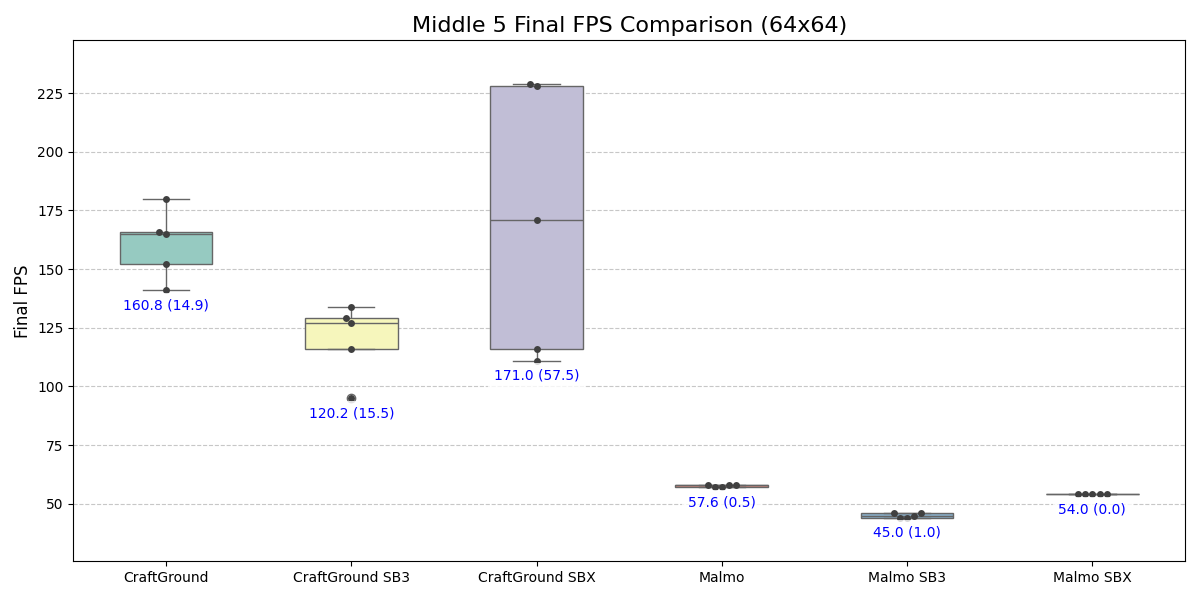
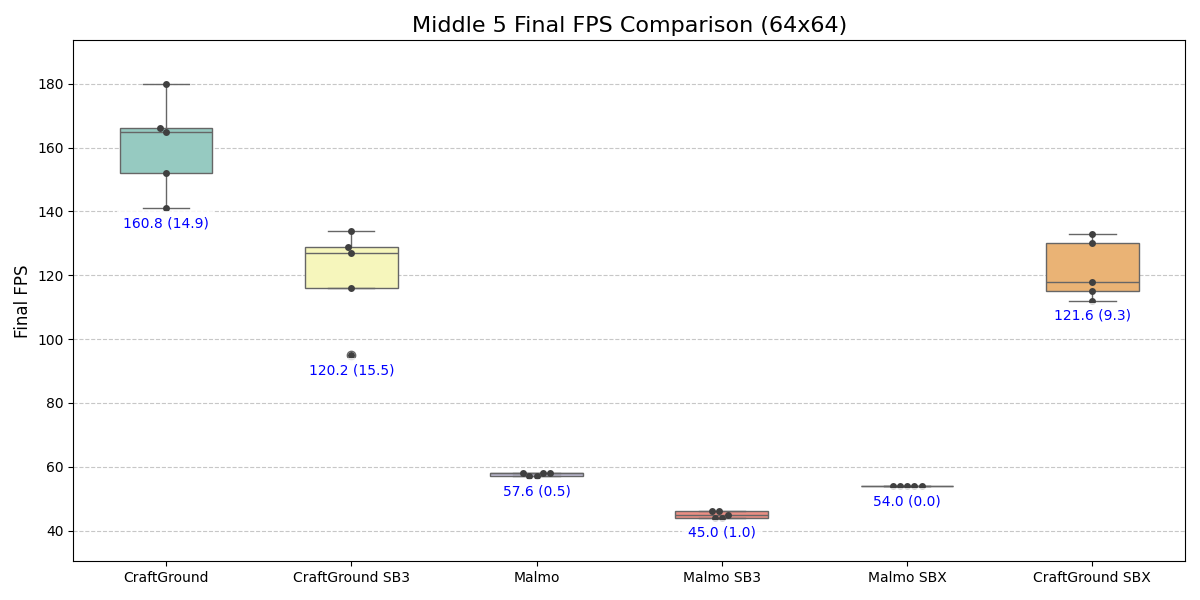
⚗ Lower sd for sbx cg

diff --git a/post_processing/group_fps.py b/post_processing/group_fps.py
@@ -27,14 +27,59 @@ def remove_outliers_iqr(df, column="time/fps"):
     return df[(df[column] >= lower_bound) & (df[column] <= upper_bound)]
 
 
+desired_order = [
+    "CraftGround",
+    "CraftGround SB3",
+    "CraftGround SBX",
+    "Malmo",
+    "Malmo SB3",
+    "Malmo SBX",
+]
+
+
 def group_fps_topk(
     csv_file: str, k: int, use_middle: bool = True, remove_iql: bool = True
 ) -> dict:
     df = pd.read_csv(csv_file)
 
-    # Seperate 64x64 640x360
-    df_64x64 = df[df["group"].str.contains("64-64")]
-    df_640x360 = df[df["group"].str.contains("640-360")]
+    desired_order = [
+        "CraftGround",
+        "CraftGround SB3",
+        "CraftGround SBX",
+        "Malmo",
+        "Malmo SB3",
+        "Malmo SBX",
+    ]
+
+    new_labels = {
+        "v3-craftground-raw--64-64-render_sbx-ppo": "CraftGround SBX",
+        "v2-craftground-raw--64-64-render_ppo": "CraftGround SB3",
+        "v2-craftground-raw--64-64-render": "CraftGround",
+        "v2-minerl100--64-64-render_sbx-ppo": "Malmo SBX",
+        "v2-minerl100--64-64-render_ppo": "Malmo SB3",
+        "v2-minerl100--64-64-render": "Malmo",
+        "v2-craftground-raw--640-360-render_sbx-ppo": "CraftGround SBX",
+        "v2-craftground-raw--640-360-render_ppo": "CraftGround SB3",
+        "v2-craftground-raw--640-360-render": "CraftGround",
+        "v2-minerl100--640-360-render_sbx-ppo": "Malmo SBX",
+        "v2-minerl100--640-360-render_ppo": "Malmo SB3",
+        "v2-minerl100--640-360-render": "Malmo",
+    }
+
+    df_64x64 = df[df["group"].str.contains("64-64")].copy()
+    df_640x360 = df[df["group"].str.contains("640-360")].copy()
+
+    df_64x64["group"] = df_64x64["group"].map(new_labels)
+    df_64x64 = df_64x64.sort_values(
+        by="group",
+        key=lambda x: x.map({v: i for i, v in enumerate(desired_order)}),
+    )
+
+    df_640x360["group"] = df_640x360["group"].map(new_labels)
+    df_640x360 = df_640x360.sort_values(
+        by="group",
+        key=lambda x: x.map({v: i for i, v in enumerate(desired_order)}),
+    )
 
     if remove_iql:
         df_64x64 = df_64x64.groupby("group", group_keys=False).apply(
@@ -69,25 +114,21 @@ def group_fps_topk(
             .reset_index(drop=True)
         )
 
-    new_labels = {
-        "v2-craftground-raw--64-64-render_sbx-ppo": "CraftGround SBX",
-        "v2-craftground-raw--64-64-render_ppo": "CraftGround SB3",
-        "v2-craftground-raw--64-64-render": "CraftGround",
-        "v2-minerl100--64-64-render_sbx-ppo": "Malmo SBX",
-        "v2-minerl100--64-64-render_ppo": "Malmo SB3",
-        "v2-minerl100--64-64-render": "Malmo",
-        "v2-craftground-raw--640-360-render_sbx-ppo": "CraftGround SBX",
-        "v2-craftground-raw--640-360-render_ppo": "CraftGround SB3",
-        "v2-craftground-raw--640-360-render": "CraftGround",
-        "v2-minerl100--640-360-render_sbx-ppo": "Malmo SBX",
-        "v2-minerl100--640-360-render_ppo": "Malmo SB3",
-        "v2-minerl100--640-360-render": "Malmo",
-    }
-
     # 64x64 Box Plot
     plt.figure(figsize=(12, 6))
-    sns.boxplot(data=selected_64x64, x="group", y="time/fps", palette="Set3", width=0.5)
-    sns.swarmplot(data=selected_64x64, x="group", y="time/fps", color=".25")
+    sns.boxplot(
+        data=selected_64x64,
+        x="group",
+        y="time/fps",
+        palette="Set3",
+        width=0.5,
+    )
+    sns.swarmplot(
+        data=selected_64x64,
+        x="group",
+        y="time/fps",
+        color=".25",
+    )
     title_text = "Middle" if use_middle else "Top"
     plt.title(f"{title_text} {k} Final FPS Comparison (64x64)", fontsize=16)
     plt.xlabel("", fontsize=12)
@@ -128,9 +169,18 @@ def group_fps_topk(
     # 640x360 Box Plot
     plt.figure(figsize=(12, 6))
     sns.boxplot(
-        data=selected_640x360, x="group", y="time/fps", palette="Set3", width=0.5
+        data=selected_640x360,
+        x="group",
+        y="time/fps",
+        palette="Set3",
+        width=0.5,
     )
-    sns.swarmplot(data=selected_640x360, x="group", y="time/fps", color=".25")
+    sns.swarmplot(
+        data=selected_640x360,
+        x="group",
+        y="time/fps",
+        color=".25",
+    )
     plt.title(f"{title_text} {k} Final FPS Comparison (640x360)", fontsize=16)
     plt.xlabel("", fontsize=12)
     plt.ylabel("Final FPS", fontsize=12)
@@ -176,5 +226,5 @@ def group_fps_topk(
 if __name__ == "__main__":
     current_dir = os.path.dirname(os.path.abspath(__file__))
     csv_file = os.path.join(current_dir, "data", "all.csv")
-    grouped_dict = group_fps_topk(csv_file, k=5)
+    grouped_dict = group_fps_topk(csv_file, k=9)
     print(grouped_dict)

diff --git a/post_processing/download_data.py b/post_processing/download_data.py
@@ -58,7 +58,7 @@ def predicate(run: Run):
         "v2-minerl100--640-360-render_sbx-ppo",
         "v2-craftground-raw--64-64-render",
         "v2-craftground-raw--64-64-render_ppo",
-        "v2-craftground-raw--64-64-render_sbx-ppo",
+        "v3-craftground-raw--64-64-render_sbx-ppo",
         "v2-craftground-raw--640-360-render",
         "v2-craftground-raw--640-360-render_ppo",
         "v2-craftground-raw--640-360-render_sbx-ppo",
